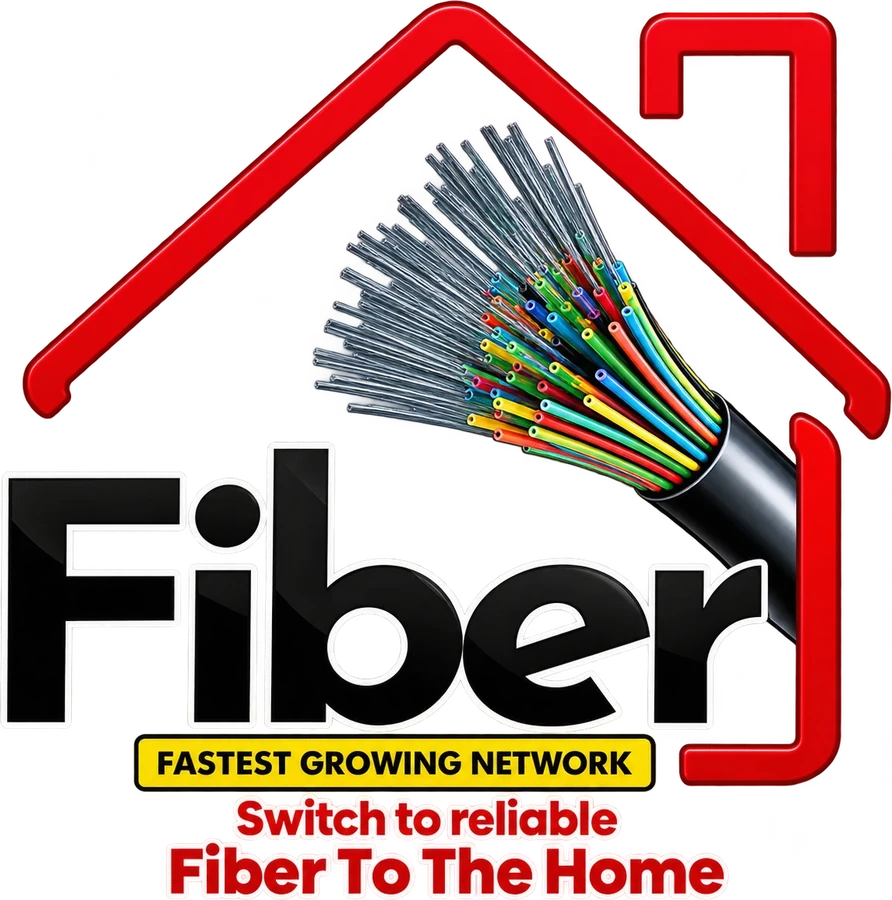
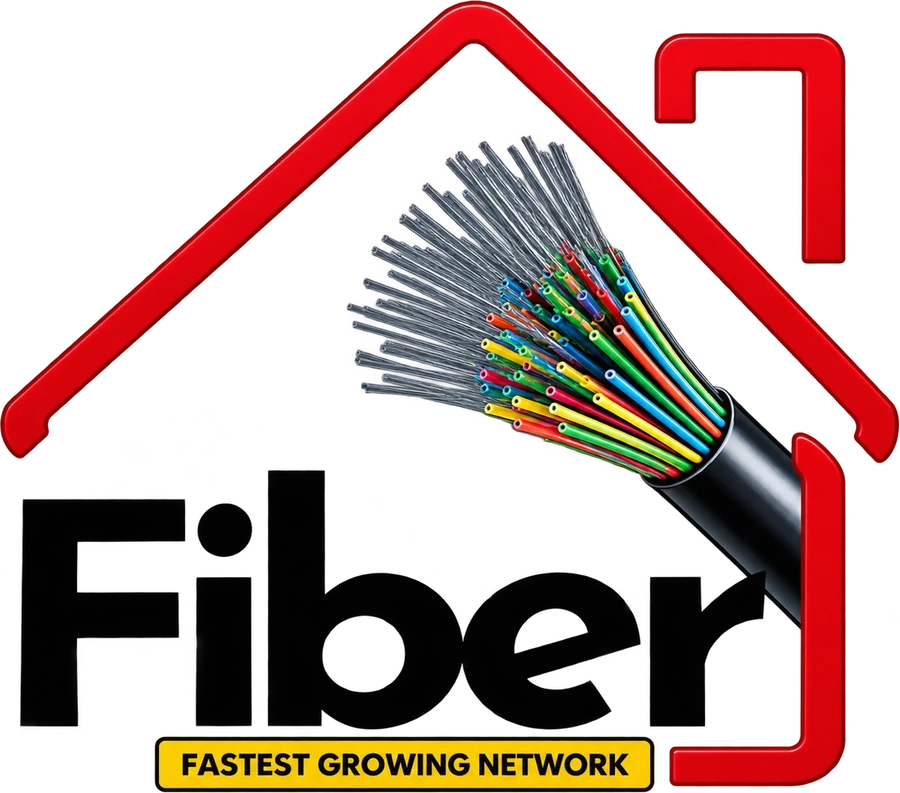
feat(login): new Fiber picture, softer field corners, polish
- New transparent Fiber-to-the-Home picture, eased in once when its space
  is known; fits every phone size without pushing the form
- Fields and Sign in use a 14 px corner radius (no longer pills), with a
  fine edge and soft shadow so white fields read on the grey page
- Enter on the first field moves to the password; autofill hints
  (username / current-password) so password managers can fill both
- Input accepts a ref

Claude-Session: https://claude.ai/code/session_01LjQbLBAR5ackzYwC134Eus

diff --git a/mobile/app/(auth)/login.tsx b/mobile/app/(auth)/login.tsx
@@ -1,5 +1,5 @@
-import { useState } from 'react';
-import { Image, KeyboardAvoidingView, Platform, Pressable, ScrollView, StyleSheet, useWindowDimensions, View } from 'react-native';
+import { useEffect, useRef, useState, type ComponentRef } from 'react';
+import { Animated, Easing, Image, KeyboardAvoidingView, Platform, Pressable, ScrollView, StyleSheet, TextInput, useWindowDimensions, View } from 'react-native';
 import { router } from 'expo-router';
 import { Ionicons } from '@expo/vector-icons';
 import { useSafeAreaInsets } from 'react-native-safe-area-context';
@@ -11,26 +11,33 @@ import { alertDialog } from '../../src/store/feedback';
 import { colors, fonts, radius, space } from '../../src/theme';
 
 const MAX_W = 480;
+/** Corner radius shared by the fields and the Sign in button */
+const CORNER = 14;
 const HERO = require('../../assets/login-fiber.webp');
-const HERO_RATIO = 892 / 900; // width / height of assets/login-fiber.webp
+const HERO_RATIO = 900 / 793; // width / height of assets/login-fiber.webp
 
 /** Sign-in: brand, a short welcome and one frosted card with the form, on the dashboards' own backdrop. */
 export default function Login() {
   const insets = useSafeAreaInsets();
   const { width: winW, height: winH } = useWindowDimensions();
   const W = Math.min(winW, MAX_W);
-  // The image gets the height left after the brand bar and the form (~510 px), within limits
-
   // Free space between the top bar and the form; the picture is sized to fit it exactly (never larger)
   const [area, setArea] = useState({ w: 0, h: 0 });
   const heroH = Math.max(0, Math.min(area.h - 16, area.w / HERO_RATIO));
   const heroW = heroH * HERO_RATIO;
+  const heroIn = useRef(new Animated.Value(0)).current;
+  const passwordRef = useRef<ComponentRef<typeof TextInput>>(null);
   const [identifier, setIdentifier] = useState('');
   const [password, setPassword] = useState('');
   const [showPassword, setShowPassword] = useState(false);
   const [loading, setLoading] = useState(false);
   const [error, setError] = useState<string | null>(null);
   const [signedIn, setSignedIn] = useState<User | null>(null);
+
+  // The picture eases in once, as soon as its space is known
+  useEffect(() => {
+    if (area.h > 0) Animated.timing(heroIn, { toValue: 1, duration: 520, easing: Easing.out(Easing.cubic), useNativeDriver: Platform.OS !== 'web' }).start();
+  }, [area.h > 0, heroIn]);
 
   const submit = async () => {
     if (!identifier.trim() || !password) {
@@ -74,9 +81,9 @@ export default function Login() {
             {/* The Fiber-to-the-Home picture, as is — no frame, no mask; it fills the space above the form */}
             <View style={styles.heroArea} onLayout={(e) => setArea({ w: e.nativeEvent.layout.width, h: e.nativeEvent.layout.height })}>
               {area.h > 0 ? (
-                <View style={styles.heroCenter} pointerEvents="none">
+                <Animated.View style={[styles.heroCenter, { opacity: heroIn, transform: [{ translateY: heroIn.interpolate({ inputRange: [0, 1], outputRange: [10, 0] }) }] }]} pointerEvents="none">
                   <Image source={HERO} style={{ width: heroW, height: heroH }} resizeMode="contain" accessibilityLabel="Fiber to the home" />
-                </View>
+                </Animated.View>
               ) : null}
             </View>
 
@@ -97,8 +104,12 @@ export default function Login() {
                   placeholder="e.g. OPT-TEC-001"
                   autoCapitalize="characters"
                   autoCorrect={false}
+                  autoComplete="username"
+                  textContentType="username"
                   value={identifier}
                   onChangeText={onChange(setIdentifier)}
+                  onSubmitEditing={() => passwordRef.current?.focus()}
+                  blurOnSubmit={false}
                   returnKeyType="next"
                   fieldStyle={styles.field}
                 />
@@ -107,7 +118,12 @@ export default function Login() {
                     label="Password"
                     icon="lock-closed-outline"
                     placeholder="Your password"
+                    ref={passwordRef}
                     secureTextEntry={!showPassword}
+                    autoComplete="current-password"
+                    textContentType="password"
+                    autoCapitalize="none"
+                    autoCorrect={false}
                     value={password}
                     onChangeText={onChange(setPassword)}
                     onSubmitEditing={submit}
@@ -128,7 +144,7 @@ export default function Login() {
                   </View>
                 ) : null}
 
-                <Button label="Sign in" size="lg" trailingIcon="arrow-forward-circle-outline" loading={loading} onPress={submit} />
+                <Button label="Sign in" size="lg" trailingIcon="arrow-forward-circle-outline" loading={loading} onPress={submit} style={styles.signIn} />
               </View>
 
               <Pressable onPress={help} hitSlop={8} style={styles.help} accessibilityRole="button">
@@ -169,7 +185,9 @@ const styles = StyleSheet.create({
   heroArea: { flex: 1, minHeight: 170 },
   heroCenter: { position: 'absolute', top: 0, bottom: 0, left: 0, right: 0, alignItems: 'center', justifyContent: 'center' },
   card: { gap: 14 },
-  field: { backgroundColor: '#FFFFFF', minHeight: 56 },
+  // Soft, slightly rounded corners (not pills) with a fine edge so white fields read on the grey page
+  field: { backgroundColor: '#FFFFFF', minHeight: 56, borderRadius: CORNER, shadowColor: '#1C1D1F', shadowOpacity: 0.05, shadowRadius: 8, shadowOffset: { width: 0, height: 2 } },
+  signIn: { borderRadius: CORNER, marginTop: 4 },
   eye: { position: 'absolute', right: space.lg, bottom: 18 },
   error: { flexDirection: 'row', gap: space.sm, alignItems: 'center', backgroundColor: colors.dangerSoft, padding: space.md, borderRadius: radius.md },
   help: { alignSelf: 'center' },

diff --git a/mobile/src/components/Input.tsx b/mobile/src/components/Input.tsx
@@ -1,4 +1,4 @@
-import { useState } from 'react';
+import { useState, type ComponentRef, type Ref } from 'react';
 import { Platform, StyleSheet, TextInput, View, type StyleProp, type TextInputProps, type TextStyle, type ViewStyle } from 'react-native';
 import { Ionicons } from '@expo/vector-icons';
 import { colors, fonts, radius, space } from '../theme';
@@ -8,6 +8,7 @@ interface Props extends TextInputProps {
   label?: string;
   icon?: keyof typeof Ionicons.glyphMap;
   error?: string;
+  ref?: Ref<ComponentRef<typeof TextInput>>;
   /** Extra style for the pill field (e.g. a solid fill on plain white pages). */
   fieldStyle?: StyleProp<ViewStyle>;
 }
